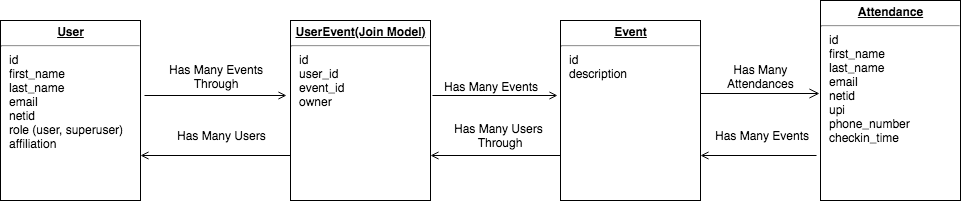
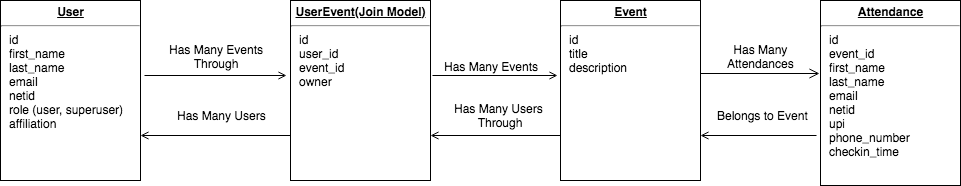
Fix associations between event and attendance, add new README image.
Resolves #145

diff --git a/db/schema.rb b/db/schema.rb
@@ -10,7 +10,7 @@
 #
 # It's strongly recommended that you check this file into your version control system.
 
-ActiveRecord::Schema.define(version: 2019_02_15_231315) do
+ActiveRecord::Schema.define(version: 2019_02_18_145124) do
 
   # These are extensions that must be enabled in order to support this database
   enable_extension "plpgsql"
@@ -25,15 +25,8 @@ ActiveRecord::Schema.define(version: 2019_02_15_231315) do
     t.string "check_in"
     t.datetime "created_at", null: false
     t.datetime "updated_at", null: false
-  end
-
-  create_table "event_attendances", force: :cascade do |t|
     t.bigint "event_id"
-    t.bigint "attendance_id"
-    t.datetime "created_at", null: false
-    t.datetime "updated_at", null: false
-    t.index ["attendance_id"], name: "index_event_attendances_on_attendance_id"
-    t.index ["event_id"], name: "index_event_attendances_on_event_id"
+    t.index ["event_id"], name: "index_attendances_on_event_id"
   end
 
   create_table "events", force: :cascade do |t|
@@ -67,8 +60,7 @@ ActiveRecord::Schema.define(version: 2019_02_15_231315) do
     t.index ["username"], name: "index_users_on_username", unique: true
   end
 
-  add_foreign_key "event_attendances", "attendances"
-  add_foreign_key "event_attendances", "events"
+  add_foreign_key "attendances", "events"
   add_foreign_key "user_events", "events"
   add_foreign_key "user_events", "users"
 end

diff --git a/app/models/attendance.rb b/app/models/attendance.rb
@@ -7,7 +7,7 @@
 # @attr Net_id [String] net id of the attendee
 # @attr Upi [String] upi of the attendee
 # @attr Phone [String] phone number of the attendee
-# @attr Check_in [String] the date/time that the check in happens.
+# @attr Check_in [DateTime] the date/time that the check in happens.
 class Attendance < ApplicationRecord
   validates :first_name, presence: true
   validates :last_name, presence: true
@@ -16,10 +16,8 @@ class Attendance < ApplicationRecord
     { case_sensitive: false }
   validates :net_id, presence: true
   validates :upi, presence: true
-  validates :phone, presence: true # desired format?
   validates :check_in, presence: true
 
   # Associations
-  has_many :event_attendances, dependent: :destroy
-  has_many :events, through: :event_attendances
+  belongs_to :event
 end

diff --git a/spec/models/attendance_spec.rb b/spec/models/attendance_spec.rb
@@ -9,12 +9,10 @@ RSpec.describe Attendance, type: :model do
     it { is_expected.to validate_presence_of(:email) }
     it { is_expected.to validate_presence_of(:net_id) }
     it { is_expected.to validate_presence_of(:upi) }
-    it { is_expected.to validate_presence_of(:phone) }
     it { is_expected.to validate_presence_of(:check_in) }
+  end
 
-    describe 'Associations' do
-      it { is_expected.to have_many(:event_attendances) }
-      it { is_expected.to have_many(:events).through(:event_attendances) }
-    end
+  describe 'Associations' do
+    it { is_expected.to belong_to(:event) }
   end
 end

diff --git a/spec/models/event_spec.rb b/spec/models/event_spec.rb
@@ -52,7 +52,6 @@ RSpec.describe Event, type: :model do
   end
 
   describe 'Associations' do
-    it { is_expected.to have_many(:event_attendances) }
-    it { is_expected.to have_many(:attendances).through(:event_attendances) }
+    it { is_expected.to have_many(:attendances) }
   end
 end

diff --git a/app/models/event.rb b/app/models/event.rb
@@ -9,8 +9,7 @@ class Event < ApplicationRecord
   before_validation :remove_whitespaces
 
   # Associations
-  has_many :event_attendances, dependent: :destroy
-  has_many :attendances, through: :event_attendances
+  has_many :attendances, dependent: :destroy
 
   private
 

diff --git a/db/migrate/20190218145124_remove_event_attendance_table.rb b/db/migrate/20190218145124_remove_event_attendance_table.rb
@@ -1,0 +1,7 @@
+class RemoveEventAttendanceTable < ActiveRecord::Migration[5.2]
+  def change
+    drop_table :event_attendances
+
+    add_reference :attendances, :event, foreign_key: true
+  end
+end

diff --git a/spec/factories/user.rb b/spec/factories/user.rb
@@ -1,0 +1,8 @@
+# frozen_string_literal: true
+
+FactoryBot.define do
+  factory :user do
+    sequence(:email) { |n| "email#{n}@email.com" }
+    sequence(:username) { |n| "user#{n}" }
+  end
+end

diff --git a/spec/factories/attendance.rb b/spec/factories/attendance.rb
@@ -9,5 +9,6 @@ FactoryBot.define do
     upi { '01234567' }
     phone { '555-555-5555' }
     check_in { Time.zone.now }
+    event
   end
 end

diff --git a/CHANGELOG.md b/CHANGELOG.md
@@ -5,6 +5,7 @@ This file should be updated before a new release is deployed.
 ## 2.0.0 (Unreleased)
 ### Changed
 * Modified README to reflect v2.0 [#132](https://gitlab.com/yale-sdmp/cardswipr/issues/132)
+* Modified associations between Event and Attendance [#145](https://gitlab.com/yale-sdmp/cardswipr/issues/145)
 
 ### Added
 * Added User model [#107](https://gitlab.com/yale-sdmp/cardswipr/issues/107)
